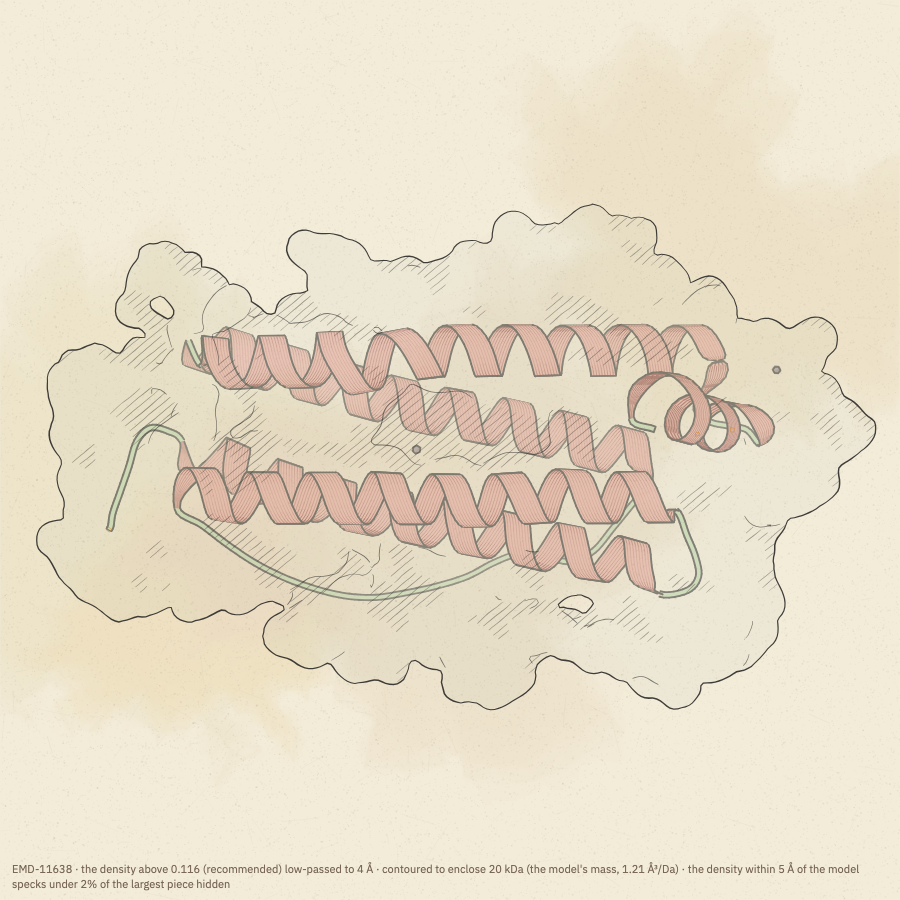
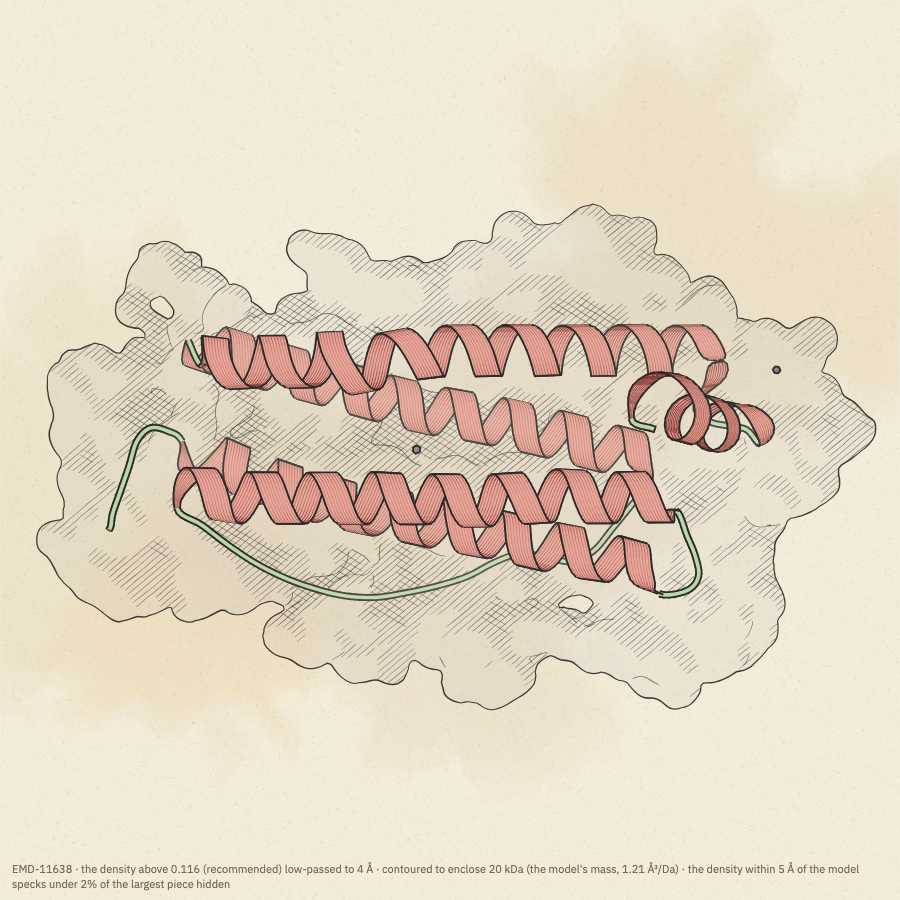
Maps: behind the model by default, so the model keeps its colour
With a model, a surface map is now drawn behind it (map.layer 'behind', the default): the model
is painted over the map and keeps its colour, the map shows around it and through its gaps.
'over' keeps the translucent envelope over the model; 'lines' draws only the map's outline over
it. The Map tab has the choice; docs and images updated.

diff --git a/app/src/classic/engine.js b/app/src/classic/engine.js
@@ -1051,8 +1051,8 @@ function buildMap(items,st,pos,proj,seedBase){
     let tri=L.tri;if(o.finish!=='sketch'&&M.hasModel&&!M.zoned&&(o.context??'hide')==='hide'){const keep=[];let cut=0;for(let t=0;t<tri.length;t+=3){if(comp[tri[t]]===2&&comp[tri[t+1]]===2&&comp[tri[t+2]]===2){cut++;continue}keep.push(tri[t],tri[t+1],tri[t+2])}if(cut){tri=new Uint32Array(keep);M.contextHidden=true}}
     return {...L,tri,px,py,pz,fog,rn,cls}};   // projected afresh every frame: the camera moves
   const levels=M.levels.map(prep),main=levels[M.primary]||levels[0];
-  const style=o.style,layer=o.layer==='auto'?(style==='slice'?'plane':'over'):o.layer;
-  const zItem=layer==='under'?-1e9:layer==='over'?1e9:0;
+  const style=o.style,layer=o.layer==='auto'?(style==='slice'?'plane':M.hasModel&&style==='surface'?'under':'over'):o.layer==='behind'?'under':o.layer;   // with a model: behind it, so the model keeps its colour
+  const zItem=layer==='under'?-1e9:layer==='over'||layer==='lines'?1e9:0;
   // the surface's silhouette on the mesh: where n·(eye − p) changes sign, kept where the buffer sees it
   const silhouettes=(L,buf)=>{
     const n=L.pos.length/3,f=new Float32Array(n);
@@ -1153,17 +1153,18 @@ function buildMap(items,st,pos,proj,seedBase){
     const covered=i=>buf.tb[i]>=0,ctxIx=classIx.has(contextCol)?classIx.get(contextCol):-2,accIx=classIx.has(accent)?classIx.get(accent):-2;
     const own=i=>covered(i)&&sh.cls[i]!==ctxIx,rest=ctxIx>=0?regions(i=>covered(i)&&sh.cls[i]===ctxIx):[];
     const body=regions(own).map(r=>chaikin(r,2));if(!body.length&&!rest.length)return;
-    const alone=!M.hasModel,op=alone?1:(o.opacity??0.55),lineCol=o.line||inkCol,lw=o.lineWidth??0.9,blur=Math.max(1,1.6*TEX);
+    // behind the model (layer 'under'), the map is drawn as fully as on its own: the model is painted over it; 'lines': only its outline, over the model
+    const lines=layer==='lines',alone=!M.hasModel||layer==='under',op=alone?1:(o.opacity??0.55),lineCol=o.line||inkCol,lw=o.lineWidth??0.9,blur=Math.max(1,1.6*TEX);
     const base=mapCol,darkC=mix(mapCol,light?'#1c2330':'#000000',light?0.62:0.7),lite=light?'#ffffff':mix(mapCol,'#ffffff',0.5);
     // the map's marks: ink (outline and hatching, in every look: the default) or the look's own (a watercolour gradient)
-    const hatchy=drawn&&((o.marks??'ink')==='ink'||ink||pencil||chalk),washy=drawn&&wc&&!hatchy;
+    const hatchy=!lines&&drawn&&((o.marks??'ink')==='ink'||ink||pencil||chalk),washy=!lines&&drawn&&wc&&!hatchy;
     if(hatchy){ // ink: paper inside the outline, hatching where the light falls away, crossed where deepest
       ctx.save();ringsPath(ctx,body);ctx.fillStyle=paperFill();ctx.globalAlpha=alone?1:0.45;ctx.fill('evenodd');ctx.restore();
       if(wc)washRings(ctx,body,mapCol,seedBase+93,{strength:alone?0.16:0.1,layers:2,noRing:true});   // on watercolour paper, a faint wash under the hatching
       const inkColour=cfg.rep.fill==='ink colour',colorAt=()=>inkColour||pencil||chalk?mix(mapCol,P.hatch,0.3):P.hatch,sp=S.hatchSpacing*Math.max(0.7,TEX),ang=S.hatchAngle*Math.PI/180;
       const kk=(o.shade??0.35)/0.35;if(alone){hatch(ctx,sh,own,0.4,ang,sp,colorAt,0.7*kk);hatch(ctx,sh,own,0.68,ang+1.25,sp*1.2,colorAt,0.55*kk)}
       else hatch(ctx,sh,own,0.62,ang,sp*1.3,colorAt,0.5*kk)}   // over a model: only the deepest shadow, one way, so the model reads through
-    const off=hatchy?null:document.createElement('canvas');if(off){off.width=Math.max(1,Math.round(W*RF.dpr));off.height=Math.max(1,Math.round(H*RF.dpr));const x=off.getContext('2d');x.scale(RF.dpr,RF.dpr);
+    const off=hatchy||lines?null:document.createElement('canvas');if(off){off.width=Math.max(1,Math.round(W*RF.dpr));off.height=Math.max(1,Math.round(H*RF.dpr));const x=off.getContext('2d');x.scale(RF.dpr,RF.dpr);
     // the base colour, spread a little past the outline so the blur does not pale the edge
     ringsPath(x,body);x.fillStyle=base;x.fill('evenodd');x.lineWidth=blur*3;x.lineJoin='round';x.strokeStyle=base;x.stroke();
     for(let k=1;k<=9;k++){const t=k/10;const r=regions(i=>own(i)&&sh.dark[i]>t*0.9);if(r.length){ringsPath(x,r);x.fillStyle=rgba(darkC,washy?0.085:0.13);x.fill('evenodd')}}

diff --git a/python/molsketch/_core.js b/python/molsketch/_core.js
@@ -4457,8 +4457,8 @@
         return { ...L, tri, px, py, pz, fog, rn, cls };
       };
       const levels = M.levels.map(prep), main = levels[M.primary] || levels[0];
-      const style = o.style, layer = o.layer === "auto" ? style === "slice" ? "plane" : "over" : o.layer;
-      const zItem = layer === "under" ? -1e9 : layer === "over" ? 1e9 : 0;
+      const style = o.style, layer = o.layer === "auto" ? style === "slice" ? "plane" : M.hasModel && style === "surface" ? "under" : "over" : o.layer === "behind" ? "under" : o.layer;
+      const zItem = layer === "under" ? -1e9 : layer === "over" || layer === "lines" ? 1e9 : 0;
       const silhouettes = (L, buf) => {
         const n = L.pos.length / 3, f2 = new Float32Array(n);
         for (let v = 0; v < n; v++) {
@@ -4799,9 +4799,9 @@
         const own = (i) => covered(i) && sh.cls[i] !== ctxIx, rest = ctxIx >= 0 ? regions((i) => covered(i) && sh.cls[i] === ctxIx) : [];
         const body = regions(own).map((r) => chaikin(r, 2));
         if (!body.length && !rest.length) return;
-        const alone = !M.hasModel, op = alone ? 1 : o.opacity ?? 0.55, lineCol = o.line || inkCol, lw = o.lineWidth ?? 0.9, blur = Math.max(1, 1.6 * TEX);
+        const lines2 = layer === "lines", alone = !M.hasModel || layer === "under", op = alone ? 1 : o.opacity ?? 0.55, lineCol = o.line || inkCol, lw = o.lineWidth ?? 0.9, blur = Math.max(1, 1.6 * TEX);
         const base = mapCol, darkC = mix(mapCol, light ? "#1c2330" : "#000000", light ? 0.62 : 0.7), lite = light ? "#ffffff" : mix(mapCol, "#ffffff", 0.5);
-        const hatchy = drawn && ((o.marks ?? "ink") === "ink" || ink || pencil || chalk), washy = drawn && wc && !hatchy;
+        const hatchy = !lines2 && drawn && ((o.marks ?? "ink") === "ink" || ink || pencil || chalk), washy = !lines2 && drawn && wc && !hatchy;
         if (hatchy) {
           ctx.save();
           ringsPath(ctx, body);
@@ -4817,7 +4817,7 @@
             hatch(ctx, sh, own, 0.68, ang + 1.25, sp * 1.2, colorAt, 0.55 * kk);
           } else hatch(ctx, sh, own, 0.62, ang, sp * 1.3, colorAt, 0.5 * kk);
         }
-        const off = hatchy ? null : document.createElement("canvas");
+        const off = hatchy || lines2 ? null : document.createElement("canvas");
         if (off) {
           off.width = Math.max(1, Math.round(W * RF.dpr));
           off.height = Math.max(1, Math.round(H * RF.dpr));

diff --git a/app/src/app/panel.ts b/app/src/app/panel.ts
@@ -208,7 +208,8 @@ export function buildPanel(root: HTMLElement, H: PanelHost) {
     control(g, { t: 'select', label: 'finish', path: 'map.finish', options: ['drawn', 'smooth', 'sketch'], tip: 'drawn: a smooth surface in the look’s marks · smooth: plainly lit, as ChimeraX · sketch: the raw grid, hand-drawn' });
     control(g, { t: 'range', label: 'shading', path: 'map.shade', min: 0, max: 1, step: 0.05 });
     control(g, { t: 'range', label: 'outline', path: 'map.lineWidth', min: 0.2, max: 2.5, step: 0.05 });
-    control(g, { t: 'range', label: 'opacity over model', path: 'map.opacity', min: 0.1, max: 1, step: 0.05, when: () => H.hasStructure() });
+    control(g, { t: 'select', label: 'with the model', path: 'map.layer', options: ['auto', 'behind', 'over', 'lines'], when: () => H.hasStructure(), tip: 'behind: the map drawn under the model, which keeps its colour (auto) · over: a translucent envelope over the model · lines: only the map’s outline, over the model' });
+    control(g, { t: 'range', label: 'opacity over model', path: 'map.opacity', min: 0.1, max: 1, step: 0.05, when: () => H.hasStructure() && S().map.layer === 'over' });
     control(g, { t: 'range', label: 'surface smoothing', path: 'map.smoothing', min: 0, max: 10, step: 1, when: () => S().map.finish !== 'sketch', tip: 'Taubin smoothing steps, as ChimeraX smooths surfaces' });
     control(g, { t: 'range', label: 'specks under (px)', path: 'map.speck', min: 0, max: 20, step: 1, tip: 'islands and holes smaller than this are left out' });
     control(g, { t: 'check', label: 'caption', path: 'map.caption', tip: 'a line under the drawing that says how the map is shown: its level, filtering, carving' });

diff --git a/app/src/style.ts b/app/src/style.ts
@@ -39,7 +39,7 @@ export interface Style {
       and the honest marks: density the model does not explain (accent), residues the density does not support, and
       a caption that states the level */
   map: { style: 'surface' | 'layers' | 'mesh' | 'slice'; level: number | null; sigma: number | null; speck: number; smooth: number | 'auto'; crop: number; levels: number[]; carve: number; zone: string; finish: 'drawn' | 'smooth' | 'sketch'; marks: 'ink' | 'look'; smoothing: number; opacity: number; context: 'hide' | 'show'; color: 'single' | 'chain' | 'model'; line: string | null; lineWidth: number; shade: number; glass: boolean;
-    unexplained: boolean; unsupported: boolean; localResolution: 'none' | 'bfactor' | 'map'; layer: 'auto' | 'under' | 'over';
+    unexplained: boolean; unsupported: boolean; localResolution: 'none' | 'bfactor' | 'map'; layer: 'auto' | 'under' | 'behind' | 'over' | 'lines';
     caption: boolean; maxVoxels: number; meshSpacing: number; slice: { offset: number; cut: boolean } };
   reps: { sticks: string; cartoon: string; surface: string };   // selections
   stickRadius: number;       // Å

diff --git a/docs/maps.md b/docs/maps.md
@@ -74,8 +74,10 @@ contoured to enclose 0.30 MDa (the sample's mass, 1.21 Å³/Da) · specks under 
 
 ## A map with its model
 
-The map is drawn over the model as a translucent envelope, so the model shows through it (`opacity`, 0.55 by
-default). Two more choices keep the picture about this model:
+The map is drawn **behind** the model: the model is painted over it and keeps its colour, and the map shows around
+it and through its gaps. `layer="over"` draws the map over the model instead, as a translucent envelope (`opacity`,
+0.55 by default), and `layer="lines"` draws only the map's outline over the model. In the app: Map › Drawing › *with
+the model*. Two more choices keep the picture about this model:
 
 - **Cropping.** The map is cropped to the model's box plus 8 Å (`crop`).
 - **Density near the model.** When the map is low-passed, only the density within 5 Å of the model is kept, before
@@ -113,7 +115,7 @@ carboxylates first. Asp89 above is an example: its backbone lies in density, its
 ## How the map is drawn
 
 By default a map is drawn in **ink** whatever the look: a steady outline, hatching where the surface turns from the
-light (only the deepest shadow when a model is inside), and the look's paper, with a faint wash on watercolour paper.
+light (only the deepest shadow when the map is drawn over a model), and the look's paper, with a faint wash on watercolour paper.
 The surface is smoothed first (sampled finely for close-ups and Taubin-smoothed, as ChimeraX smooths surfaces), so it
 has no grid facets.
 
@@ -122,6 +124,7 @@ has no grid facets.
 | `marks` | `ink` (default), `look` | `look` uses the look's own marks, such as a watercolour gradient |
 | `finish` | `drawn` (default), `smooth`, `sketch` | `smooth`: plainly lit, ChimeraX-like · `sketch`: the raw grid, hand-drawn |
 | `style` | `surface` (default), `layers`, `mesh`, `slice` | `layers`: several contours nested (`levels`, as multiples of the level) · `mesh`: Coot-style chicken wire · `slice`: a section through the map, stippled by density |
+| `layer` | `auto` (behind a model), `over`, `lines` | where the map is drawn relative to the model |
 | `shade`, `line_width`, `line` | | how much shading, how heavy the outline, and its colour (default: the look's ink) |
 
 The full list of map fields is in [python/docs/style.md](../python/docs/style.md#density-maps).

diff --git a/python/docs/style.md b/python/docs/style.md
@@ -211,7 +211,7 @@ Usually set through [`fig.map`](api.md#figmapsourceauto--levelnone-sigmanone-loc
 | `map.shade` | `0.35` | how much shading, 0 (outline only) to 1 |
 | `map.line` | `null` | the outline's colour (`null`: the look's ink) |
 | `map.line_width` | `0.9` | the outline's weight |
-| `map.opacity` | `0.55` | how opaque the map is over a model |
+| `map.opacity` | `0.55` | how opaque the map is over a model (`map.layer="over"`) |
 | `map.speck` | `8` | islands and holes smaller than this, in pixels, are left out |
 | `map.crop` | `8` | with a model: the map is cropped to the model's box and this margin, Å |
 | `map.zone` | `""` | a selection: the map closely around it only, at full resolution, for close-ups |
@@ -220,7 +220,7 @@ Usually set through [`fig.map`](api.md#figmapsourceauto--levelnone-sigmanone-loc
 | `map.unsupported` | `true` | a small accent circle on residues mostly outside the density |
 | `map.unexplained` | `false` | density the model does not explain in the accent colour |
 | `map.local_resolution` | `"none"` | `"bfactor"` or `"map"`: lines looser where the resolution is worse |
-| `map.layer` | `"auto"` | draw the map `"over"` or `"under"` the model |
+| `map.layer` | `"auto"` | with a model: `"behind"` it (the default for surfaces: the model is drawn over the map and keeps its colour), `"over"` it as a translucent envelope (`map.opacity`), or `"lines"` (only the map's outline, over the model) |
 | `map.caption` | `true` | the line under the drawing that says how the map is shown |
 | `map.max_voxels` | `192` | the largest grid drawn from, per side (larger maps are averaged down) |
 | `map.mesh_spacing` | `1` | Å between the mesh's planes |
